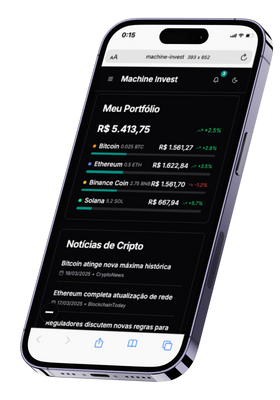
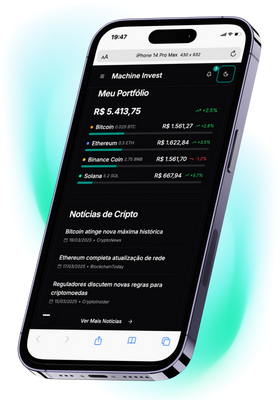
adição de imagens na home

diff --git a/components/hero-section.tsx b/components/hero-section.tsx
@@ -74,34 +74,36 @@ export function HeroSection() {
             transition={{ duration: 0.7, delay: 0.3 }}
           >
             {/* Ajustado o tamanho do container do telefone para evitar overflow */}
-            <div className="relative h-[490px] w-[300px] sm:h-[350px] sm:w-[250px] md:h-[500px] md:w-[480px] rounded-xl bg-gradient-to-br from-primary/20 via-primary/10 to-background p-1 shadow-xl">
-              <div className="absolute inset-00 bg-background/30 backdrop-blur-0" />
-              <motion.div
-                className="flex justify-center pt-6"
-                initial={{ opacity: 0, y: -20 }}
-                animate={{ opacity: 1, y: 0 }}
-                transition={{ delay: 0.5, duration: 0.8, type: "spring" }}
-              >
-                <AnimatedImage
-                src="/banner-home-1-phone.png"
-                  alt="Machine Invest Logo"
-                  width={300}
-                  height={500}
-                  className="h-81 w-100 sm:h-200 sm:w-200 mb-8"
-                  animation="zoom"
-                  delay={0.9}
-                />
-              </motion.div>
-              <motion.div
-                className="absolute bottom-4 left-4 right-4 rounded-lg bg-black/60 p-3 backdrop-blur-sm"
-                initial={{ opacity: 0, y: 20 }}
-                animate={{ opacity: 1, y: 0 }}
-                transition={{ delay: 1, duration: 0.5 }}
-              >
-                <p className="text-xs sm:text-sm font-medium text-white">Machine Invest App</p>
-                <p className="text-xs text-white/70">Disponível para iOS e Android</p>
-              </motion.div>
-            </div>
+
+            <div className="absolute inset-00 bg-background/30 backdrop-blur-0" />
+<motion.div
+  className="flex items-center justify-center w-full h-[500px] sm:h-[600px] relative overflow-visible"
+  initial={{ opacity: 0, y: -20 }}
+  animate={{ opacity: 1, y: 0 }}
+  transition={{ delay: 0.5, duration: 0.8, type: "spring" }}
+>
+  <AnimatedImage
+    src="/banner-home-1-phone.png"
+    alt="Machine Invest Logo"
+    width={300}
+    height={500}
+    className="h-full w-auto object-contain"
+    animation="zoom"
+    delay={0.9}
+  />
+</motion.div>
+
+
+            <motion.div
+              className="absolute bottom-2 left-2 right-4 rounded-lg bg-black/60 p-3 backdrop-blur-sm"
+              initial={{ opacity: 0, y: 20 }}
+              animate={{ opacity: 1, y: 0 }}
+              transition={{ delay: 1, duration: 0.5 }}
+            >
+              <p className="text-xs sm:text-sm font-medium text-white">Machine Invest App</p>
+              <p className="text-xs text-white/70">Disponível para iOS e Android</p>
+            </motion.div>
+
             {/* Reduzido o tamanho dos efeitos de blur e contido dentro do componente */}
             <div className="absolute -right-4 -top-4 h-20 w-20 rounded-full bg-primary/30 blur-xl opacity-70" />
             <div className="absolute -bottom-4 -left-4 h-20 w-20 rounded-full bg-primary/20 blur-xl opacity-70" />

diff --git a/components/cta-section.tsx b/components/cta-section.tsx
@@ -43,7 +43,7 @@ export function CtaSection() {
               transition={{ duration: 0.7 }}
             >
               <motion.div
-                className="relative h-auto max-h-[350px] sm:max-h-[400px] w-full max-w-[180px] sm:max-w-[200px] overflow-hidden rounded-xl bg-gradient-to-br from-primary/20 via-primary/10 to-background p-1 shadow-xl"
+                className="relative h-auto max-h-[350px] sm:max-h-[400px] w-full max-w-[180px] sm:max-w-[200px] overflow-hidden rounded-xl "
                 initial={{ y: 20, opacity: 0 }}
                 animate={{ y: 0, opacity: 1 }}
                 transition={{ type: "spring", stiffness: 300, damping: 20, delay: 0.5 }}
@@ -53,7 +53,7 @@ export function CtaSection() {
                 }}
               >
                 <AnimatedImage
-                  src="/images/app-screenshot.png"
+                  src="/banner-app-1.png"
                   alt="Machine Invest App Screenshot"
                   width={200}
                   height={400}

diff --git a/components/enhanced-testimonial-section.tsx b/components/enhanced-testimonial-section.tsx
@@ -101,11 +101,11 @@ export function EnhancedTestimonialSection() {
   ]
 
   const partners = [
-    { name: "TechCrunch", logo: "/placeholder.svg?height=40&width=120" },
-    { name: "Forbes", logo: "/placeholder.svg?height=40&width=120" },
-    { name: "Business Insider", logo: "/placeholder.svg?height=40&width=120" },
-    { name: "Bloomberg", logo: "/placeholder.svg?height=40&width=120" },
-    { name: "CNBC", logo: "/placeholder.svg?height=40&width=120" },
+    { name: "TechCrunch", logo: "/xp.png" },
+    { name: "Forbes", logo: "/c6.png" },
+    { name: "Business Insider", logo: "/binance.png" },
+    { name: "Bloomberg", logo: "/bb.png" },
+    { name: "CNBC", logo: "/nubank.png" },
   ]
 
   const itemsPerPage = 3
